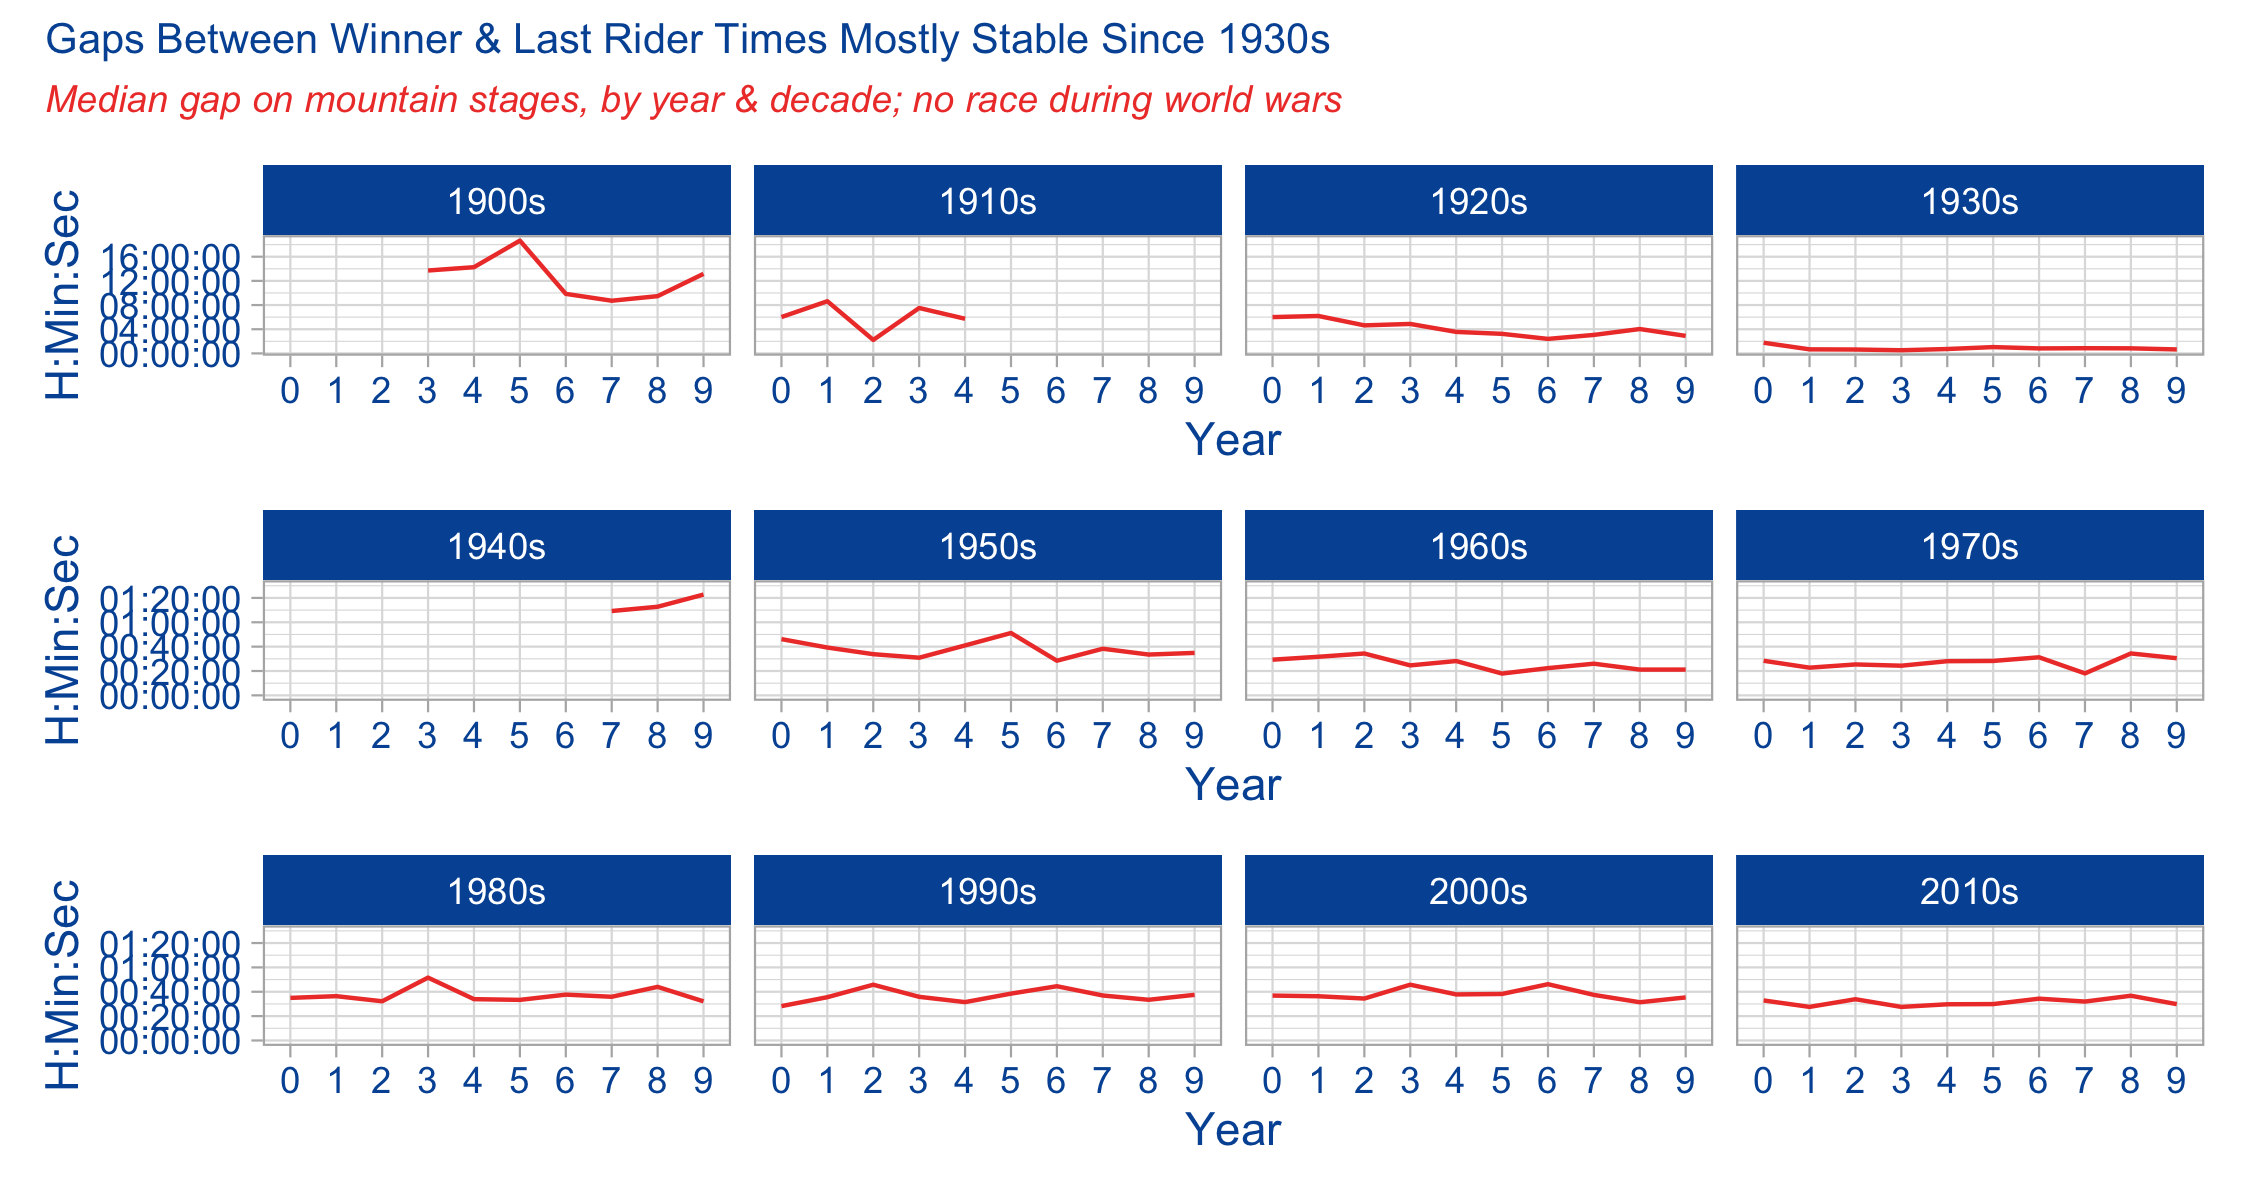
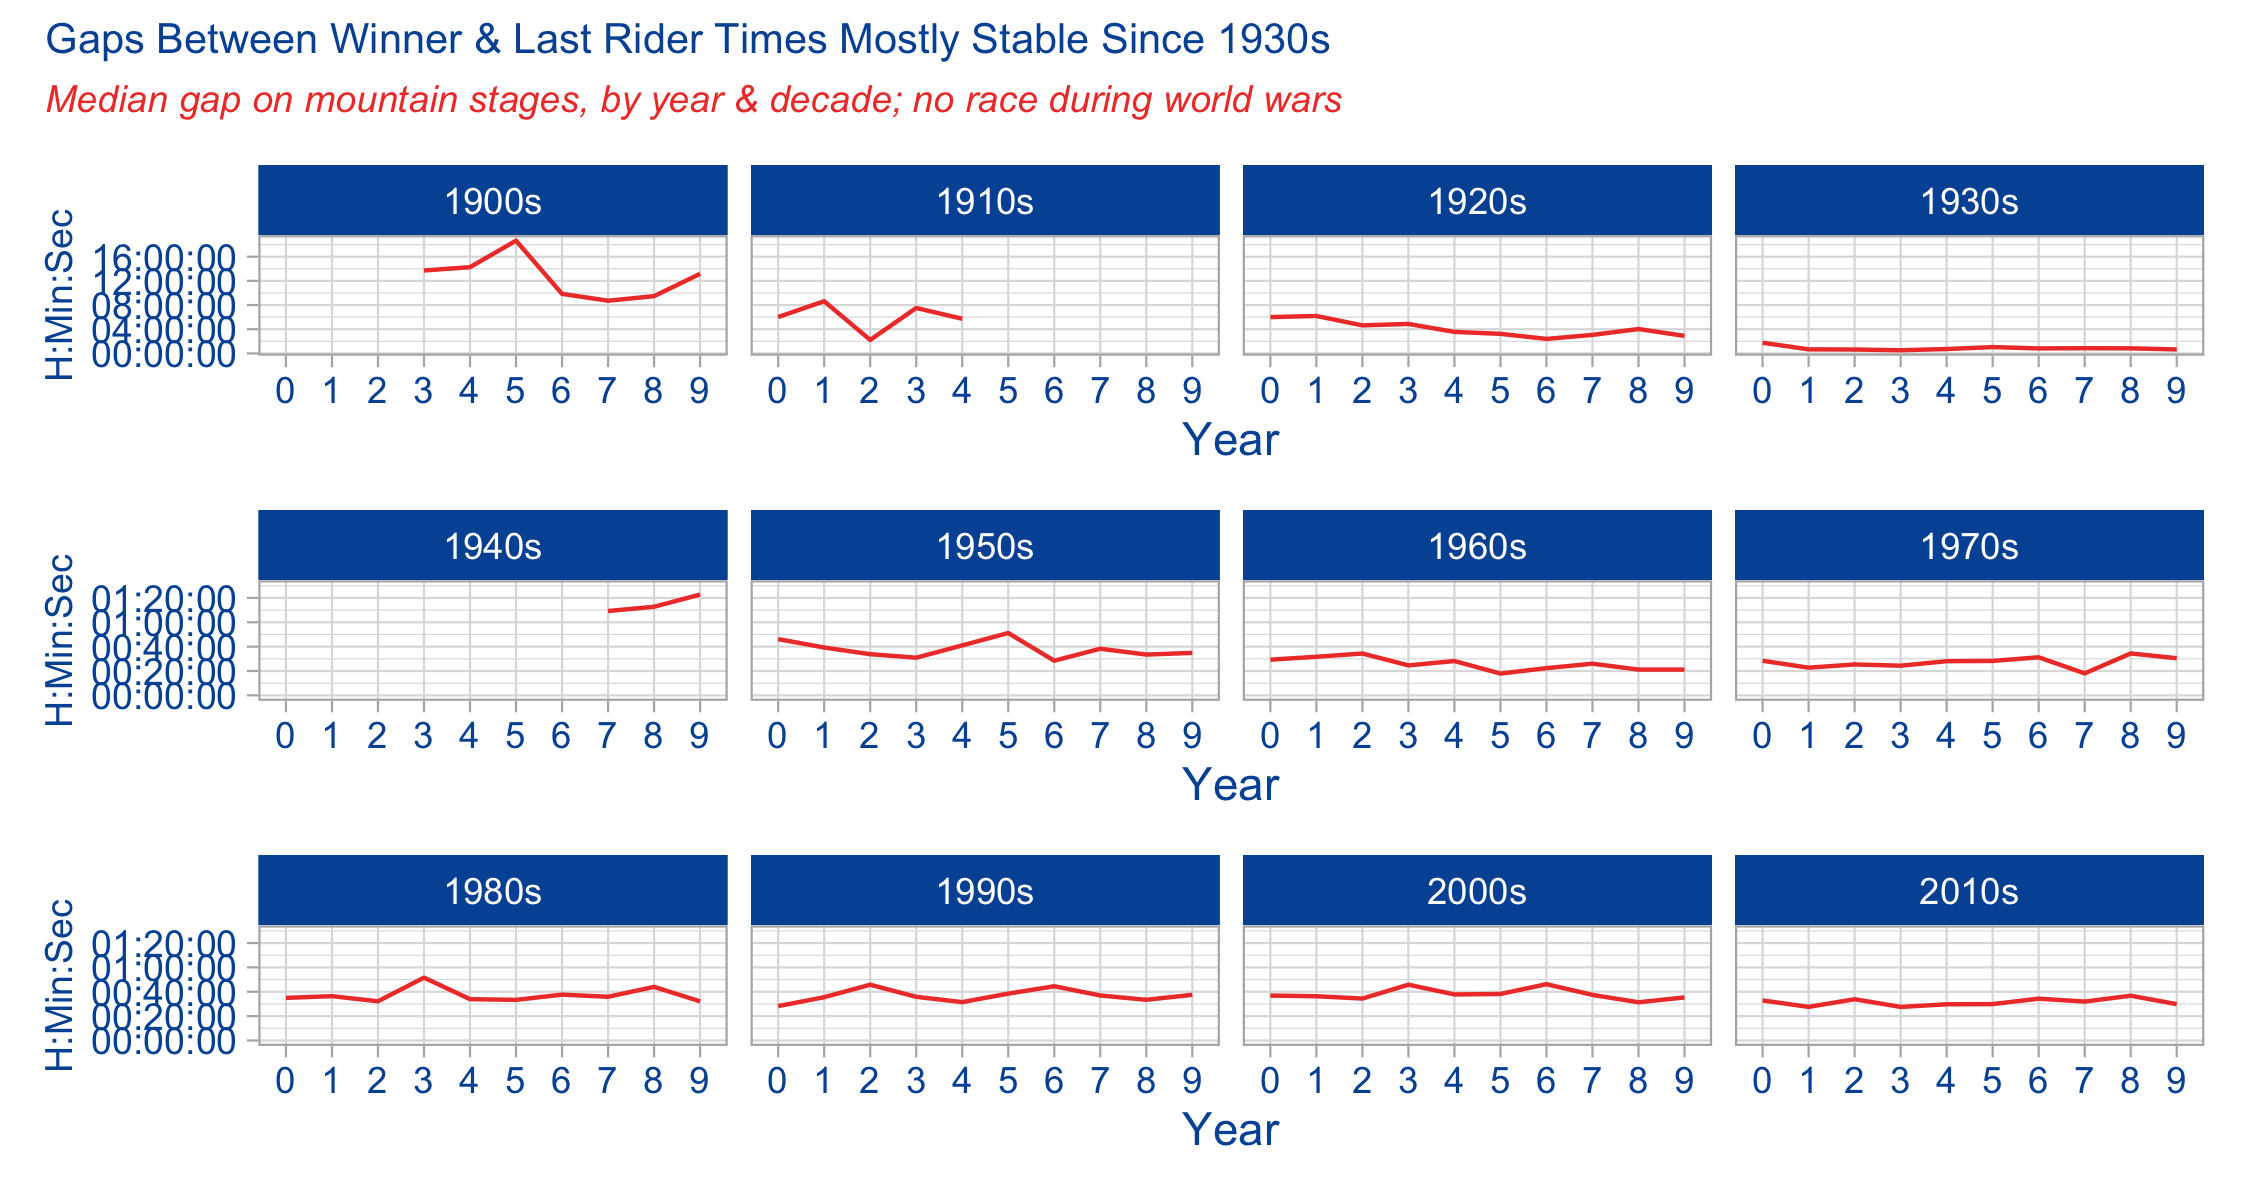
le tour stage 3

diff --git a/2020/tt_2020-04-07_letour/README.md b/2020/tt_2020-04-07_letour/README.md
@@ -671,9 +671,9 @@ plot_dec_mtla1 <-
   facet_grid( ~ race_decade) +
   theme_light() +
   theme(axis.title.x = element_text(color = "#0055A4"),
-        axis.title.y = element_text(color = "#0055A4"),
+        axis.title.y = element_text(color = "#0055A4", size = 9),
         axis.text.x = element_text(color = "#0055A4"),
-        axis.text.y = element_text(color = "#0055A4"),
+        axis.text.y = element_text(color = "#0055A4", size = 9),
         strip.background = element_rect(fill = "#0055A4"))
 
 plot_dec_mtla2 <-
@@ -688,9 +688,9 @@ plot_dec_mtla2 <-
   facet_grid( ~ race_decade) +
   theme_light() +
   theme(axis.title.x = element_text(color = "#0055A4"),
-        axis.title.y = element_text(color = "#0055A4"),
+        axis.title.y = element_text(color = "#0055A4", size = 9),
         axis.text.x = element_text(color = "#0055A4"),
-        axis.text.y = element_text(color = "#0055A4"),
+        axis.text.y = element_text(color = "#0055A4", size = 9),
         strip.background = element_rect(fill = "#0055A4"))
 
 plot_dec_mtla3 <-
@@ -705,9 +705,9 @@ plot_dec_mtla3 <-
   facet_grid( ~ race_decade) +
   theme_light() +
   theme(axis.title.x = element_text(color = "#0055A4"),
-        axis.title.y = element_text(color = "#0055A4"),
+        axis.title.y = element_text(color = "#0055A4", size = 9),
         axis.text.x = element_text(color = "#0055A4"),
-        axis.text.y = element_text(color = "#0055A4"),
+        axis.text.y = element_text(color = "#0055A4", size = 9),
         strip.background = element_rect(fill = "#0055A4"))
 
 plot_dec_mtla1 / plot_dec_mtla2 / plot_dec_mtla3  +
